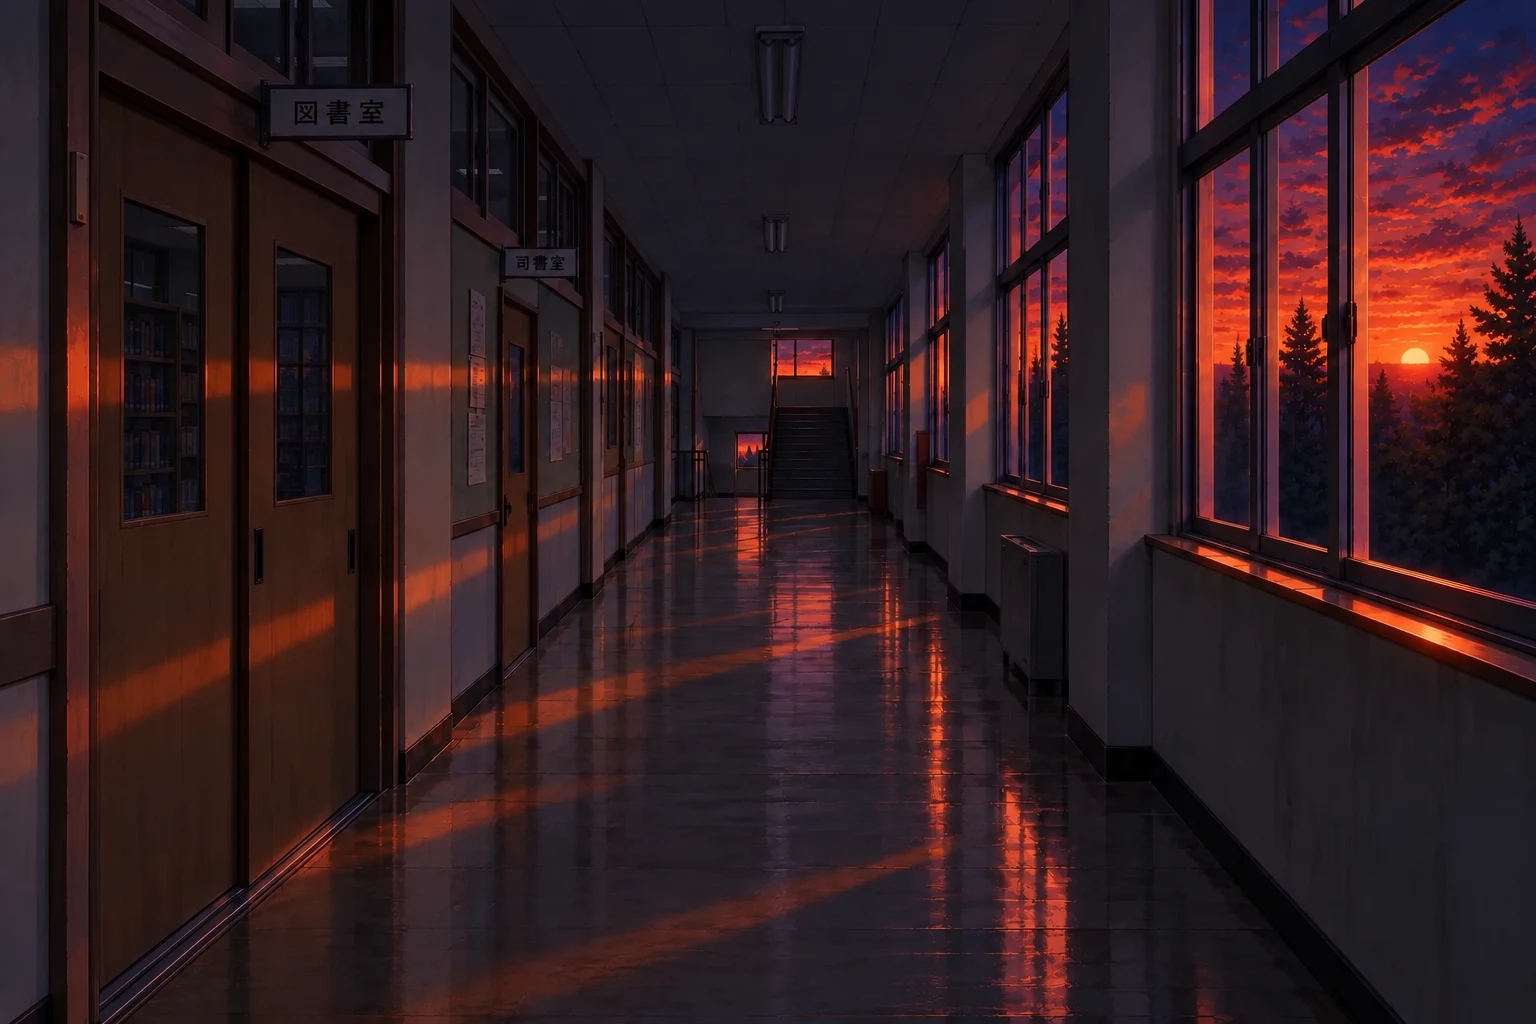
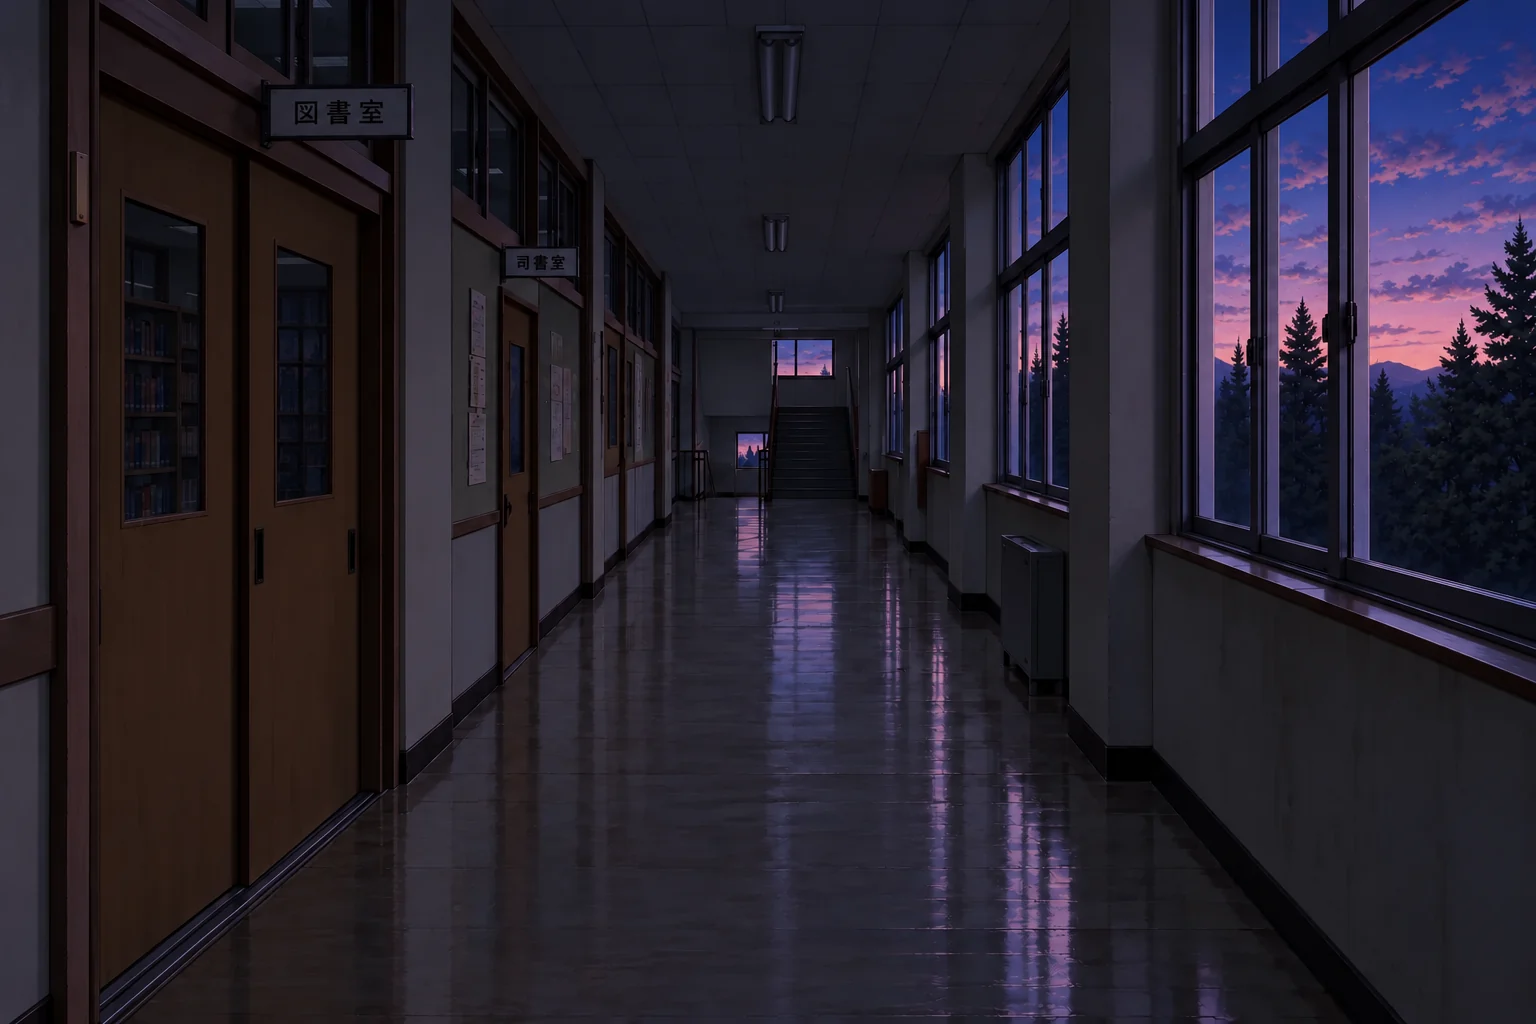
タイトルへ戻る確認・2章の足音のフェード・3章の棚を読みやすく・3章の重ね合わせの不具合・4章のポジション名・5章の赤ペン・BAD4の廊下と図書室前廊下の18:30

diff --git a/index.html b/index.html
@@ -252,7 +252,16 @@
   .sh-book.gap { background: rgba(0,0,0,.35); box-shadow: inset 0 0 0 1px rgba(255,255,255,.15); }
   .sh-book.gap .t { color: rgba(255,255,255,.55); }
   .sh-book.sel { outline: 3px solid var(--gold); outline-offset: 1px; }
-  .sh-sign { font-size: 12px; color: #e8dcc6; text-align: center; margin: 2px 0 6px; }
+  .sh-sign { font-size: 14px; color: var(--ink); text-align: center; margin: 2px 0 6px; }
+  /* PC：番号と札を読みやすく。棚の画面だけ少し広くして、本とラベルを大きくする */
+  @media (min-width: 700px) {
+    .ov-card:has(.sh-row) { max-width: 660px; }
+    .sh-book { width: 56px; height: 250px; }
+    .sh-book .t { font-size: 15px; }
+    .sh-book .lb { width: 48px; font-size: 15px; font-weight: 600; line-height: 1.3; padding: 4px 0; color: #111; }
+    .sh-row { gap: 5px; }
+    .sh-sign { font-size: 15px; }
+  }
   @media (max-width: 400px) { .sh-book { width: 30px; height: 168px; } .sh-book .lb { width: 26px; font-size: 9px; } .sh-row { gap: 2px; } }
   /* 作戦ボード：コートの図にマグネットを置く。押したマグネットと、次に押した場所が入れ替わる */
   .lu-court { position: relative; aspect-ratio: 10 / 7; background: #f3f0e8; border-radius: 4px; box-shadow: 0 4px 14px rgba(0,0,0,.4); margin: 4px 0 8px; touch-action: manipulation; }
@@ -266,6 +275,10 @@
   .lu-slot.sel b { outline: 3px solid var(--gold); outline-offset: 2px; }
   .lu-bench { display: flex; align-items: center; gap: 10px; justify-content: center; margin-bottom: 6px; }
   .lu-bench .label { font-size: 12px; color: var(--muted); letter-spacing: .1em; }
+  /* ボードの横に書き添えた役目（ケイの字）。コートの図の下に一覧で出す */
+  .lu-legend { list-style: none; margin: 0; padding: 8px 10px; background: #f3f0e8; border-radius: 4px; color: #3c4a63; font-size: 13px; line-height: 1.7; }
+  .lu-legend b { color: #b8423c; font-weight: 600; }
+  .lu-slot small { white-space: nowrap; }
   .lu-slot.bench { position: static; transform: none; }
   .lu-slot.bench b { background: #5d6f8c; }
   .align-pad div { display: flex; gap: 56px; }
@@ -2369,7 +2382,7 @@
       } else {
         // 子ども二人が上履きで駆けていく。ゴム底が床をはたく「パタパタ」（やわらかい立ち上がり・低めの音・短い余韻）
         for (let k = 0; k < 12; k++) {
-          const fade = 0.42 * (1 - k / 13);
+          const fade = 0.42 * Math.pow(Math.sin(Math.PI * (k + 0.5) / 12), 1.3);   // 遠くから近づいて、また遠ざかる（フェードイン→フェードアウト）
           const a1 = t0 + k * 0.17, a2 = t0 + 0.085 + k * 0.19;
           step(a1, 380, 0.9, fade, 0.07, 0.012); step(a1 + 0.004, 1100, 1.2, fade * 0.22, 0.035, 0.008); thump(a1, 140, 90, fade * 0.35, 0.09);
           step(a2, 330, 0.9, fade * 0.85, 0.07, 0.012); step(a2 + 0.004, 950, 1.2, fade * 0.2, 0.035, 0.008); thump(a2, 125, 85, fade * 0.3, 0.09);
@@ -3308,7 +3321,7 @@
       bg.style.opacity = '1'; await wait(750);
     };
     const halls = ORDER.map(id => CHAPTERS[id]).filter(ch => ch.hall);
-    await show(halls[0].hall);
+    await show(`${halls[0].hall}_1830_lit`);   // BAD4 は5章のあと（18:30）なので、はじめの廊下も18:30の絵
     await line('廊下に立って、並んだ扉を見渡した。');
     for (const ch of halls) {
       // 息を引き取った子の部屋だけは、明かりが消えている（閉め出した子の部屋は、ほかの教室と同じく明かりがついたまま）
@@ -5061,7 +5074,7 @@
       async notice() {
         showCut('lci_notice');
         await say(['掲示板に、図書だより7月号が貼られている。']);
-        const canUse = R.items.has('draft');
+        const lp = R.loop, canUse = R.items.has('draft');
         const v = await noticeView(canUse);
         const first = !R.know.has('dayori');
         if (first) {
@@ -5070,7 +5083,9 @@
                      '掲示板の隅に、委員会の決まりが貼ってある。「今月のおすすめは、当番の委員が名前を入れて書くこと」']);
           await tick();
         }
-        if (canUse && v === 'use') {
+        // 調べたことでチャイムが鳴ったら、持ち物（下書き）はもうないので、重ね合わせには進まない
+        if (R.over || R.loop !== lp) return;
+        if (canUse && v === 'use' && R.items.has('draft')) {
           const ok = await alignDraft();
           if (!ok) return;
           if (!R.know.has('acrostic')) {
@@ -5355,13 +5370,14 @@
   /* ================================================================
      第四章　体育館（ケイ）
      ================================================================ */
-  // 作戦ボード：5つのポジションとベンチに、6人のマグネットを置く。はじめは顧問の並び（けがを知らない顧問は、外から打てるハヤトをシューターに、ケイを司令塔に置いている）
+  // 作戦ボード：5つのポジションとベンチに、6人のマグネットを置く。はじめは顧問の並び（けがを知らない顧問は、外から打てるハヤトをシューティングガードに、ケイをポイントガードに置いている）
   // [位置, 名前, 横, 縦, 役目]。役目はボードにケイの字で書き添えてある（一年が覚えられるように）（バスケを知らなくても、手がかりと結びつけられるように）
-  const LINEUP_POS = [['pg', '司令塔', 50, 82, 'ボールを運ぶ'], ['sg', 'シューター', 85, 62, '外から打つ'], ['sf', '外のフォワード', 15, 64, '最後まで走り続ける'],
-                      ['pf', '中のフォワード', 32, 31, '速攻で一番に走りこむ'], ['c', 'ゴール下', 58, 15, '体をぶつけて守る']];
+  const LINEUP_POS = [['pg', 'ポイントガード', 50, 82, 'ボールを運び、パスで攻めを組み立てる'], ['sg', 'シューティングガード', 79, 60, '外からシュートを決める'],
+                      ['sf', 'スモールフォワード', 20, 62, '外も中も動き、最後まで走り続ける'],
+                      ['pf', 'パワーフォワード', 32, 31, 'ゴール近くで戦い、速攻では先頭を走る'], ['c', 'センター', 60, 15, 'ゴールのいちばん近くで、体を張って守る']];
   const ROLE_LINE = LINEUP_POS.map(([, l, , , r]) => `「${l}：${r}」`).join('');
   const LINEUP_COACH = { pg: 'ケイ', sg: 'ハヤト', sf: 'シュン', pf: 'ミナト', c: 'ダイチ', bench: 'ユウマ' };
-  // ケイが本当に組みたかった並び：試合の最後まで走り続ける外のフォワードに自分が入り、けがのハヤトをベンチで休ませる
+  // ケイが本当に組みたかった並び：試合の最後まで走り続けるスモールフォワードに自分が入り、けがのハヤトをベンチで休ませる
   // 手がかりは名前ではなく特徴で書く。部誌の部員名簿（背番号・身長・50m走）と、得点板の裏の練習試合の記録（背番号ごと）を照らし合わせて、はじめて誰のことかわかる
   const KEI_ROSTER = [['三浦ケイ', '2年', 4, 176, '6.9'], ['ユウマ', '1年', 5, 168, '7.1'], ['ハヤト', '1年', 7, 165, '6.8'],
                       ['シュン', '1年', 9, 170, '6.4'], ['ミナト', '1年', 11, 172, '7.0'], ['ダイチ', '1年', 15, 186, '7.6']];
@@ -5418,8 +5434,9 @@
         <p class="lu-head">ボードの上に、顧問の赤い字：「土曜のスタメン　負けたら部長交代」</p>
         <div class="lu-court">${court}
           ${R.know.has('self') ? '<span class="lu-note">自分の場所は、<br>最後に決める</span>' : ''}
-          ${LINEUP_POS.map(([k, l, x, y, r]) => `<button type="button" class="lu-slot" data-k="${k}" style="left:${x}%;top:${y}%"><b></b><small>${l}<span class="lu-role">${r}</span></small></button>`).join('')}</div>
+          ${LINEUP_POS.map(([k, l, x, y, r]) => `<button type="button" class="lu-slot" data-k="${k}" style="left:${x}%;top:${y}%"><b></b><small>${l}</small></button>`).join('')}</div>
         <div class="lu-bench"><span class="label">ベンチ</span><button type="button" class="lu-slot bench" data-k="bench"><b></b></button></div>
+        <ul class="lu-legend">${LINEUP_POS.map(([, l, , , r]) => `<li><b>${l}</b>　${r}</li>`).join('')}</ul>
         <div class="row"><button type="button" class="btn primary" id="luOk">この並びにする</button><button type="button" class="btn" id="luNo">やめる</button></div>`);
       const draw = () => card.querySelectorAll('.lu-slot').forEach(b => {
         b.querySelector('b').textContent = cur[b.dataset.k]; b.classList.toggle('sel', sel === b.dataset.k);
@@ -5591,13 +5608,13 @@
         showCut('gci_board');
         if (R.know.has('lineup')) {
           const placed = !!R.taken.board && Object.keys(LINEUP_ANSWER).every(k => R.taken.board[k] === LINEUP_ANSWER[k]);
-          if (placed) { await say(['作戦ボード。ケイが組みたかった並びのまま、マグネットが置かれている。', '外のフォワードに「ケイ」。ベンチに「ハヤト」。']); return; }
+          if (placed) { await say(['作戦ボード。ケイが組みたかった並びのまま、マグネットが置かれている。', 'スモールフォワードに「ケイ」。ベンチに「ハヤト」。']); return; }
           // チャイムで時間が戻ると、マグネットは顧問の並びに戻っている。並べ方は覚えているので、すぐに並べ直せる
           await say(['作戦ボード。マグネットは、顧問の並びに戻っていた。', '……ケイが本当に組みたかった並びは、もう覚えている。']);
           if (R.over) return;
           if (await choose(['ケイの並びに直す', 'やめる']) !== 0) return;
           R.taken.board = { ...LINEUP_ANSWER }; R.seen.add('lineup');
-          await say(['外のフォワードに「ケイ」。ベンチに「ハヤト」。……マグネットを、ケイの並びに置き直した。']);
+          await say(['スモールフォワードに「ケイ」。ベンチに「ハヤト」。……マグネットを、ケイの並びに置き直した。']);
           return;
         }
         const lp = R.loop;
@@ -5620,7 +5637,7 @@
         if (c !== 0) return;
         if (EASY() && !(R.know.has('logbook') && R.know.has('bag'))) { await say(['（部員のことが、まだよくわからない。顧問の机の部誌と、ケイの荷物を見てから並べよう）']); return; }
         const v = EASY() ? { go: true, b: { ...LINEUP_ANSWER } } : await lineupBoard();
-        if (EASY()) await say(['部誌の部員名簿と、荷物のメモを思い出しながら、マグネットを動かした。', 'けがをしたハヤトはベンチ。アシストの多いユウマが司令塔。外から決めたミナトがシューター。背の高いダイチがゴール下。足の速いシュンは、速攻で走りこむ中のフォワード。']);
+        if (EASY()) await say(['部誌の部員名簿と、荷物のメモを思い出しながら、マグネットを動かした。', 'けがをしたハヤトはベンチ。アシストの多いユウマがポイントガード。外から決めたミナトがシューティングガード。背の高いダイチがセンター。足の速いシュンは、速攻で先頭を走るパワーフォワード。']);
         R.taken.board = v.b;
         if (!v.go) return;
         const ok = Object.keys(LINEUP_ANSWER).every(k => v.b[k] === LINEUP_ANSWER[k]);
@@ -5629,7 +5646,7 @@
           await say(['マグネットを並べ終えて、ボードを眺めた。', '……何かが違う気がする。']);
           await tick(); return;
         }
-        await say(['最後に、「ケイ」のマグネットを、外のフォワードの位置に置いた。', '並べ終えたボードを、少し離れて眺めた。']);
+        await say(['最後に、「ケイ」のマグネットを、スモールフォワードの位置に置いた。', '並べ終えたボードを、少し離れて眺めた。']);
         R.know.add('lineup'); R.seen.add('lineup');
         await say(['……ケイが本当に組みたかったのは、この並びなんだ。', 'けがをしたハヤトは、ベンチで休ませる。試合の最後まで走り続ける場所には、自分が入る。',
                    '後輩のことは、こんなに考えているのに。……自分の場所だけは、いちばんきついところだった。']);
@@ -5639,7 +5656,7 @@
         showCut('gci_desk');
         if (!R.know.has('logbook')) {
           await say(['ステージ前の長机。顧問の机らしい。', 'クリップボードに、顧問の字のスタメン表が挟まっている。',
-                     '「土曜のスタメン　司令塔：ケイ　シューター：ハヤト　外のフォワード：シュン　中のフォワード：ミナト　ゴール下：ダイチ　ベンチ：ユウマ」',
+                     '「土曜のスタメン　ポイントガード：ケイ　シューティングガード：ハヤト　スモールフォワード：シュン　パワーフォワード：ミナト　センター：ダイチ　ベンチ：ユウマ」',
                      'その横に、部誌が開いたまま置いてあった。']);
           R.know.add('logbook'); await gotItem('logbook'); await tick();
         } else if (!R.items.has('logbook') && !R.taken.desk) {
@@ -5655,8 +5672,8 @@
           await tick();
         } else if (again('desk')) await say(['部誌のケイの字。「ハヤト、左足首をかばってる。本人は、大丈夫って笑ってたけど」',
                                              '机に残っていた受診メモ。「1年　ハヤト　今週の試合・練習は控えること」']);
-        else await say(['顧問のスタメン表。「司令塔：ケイ　シューター：ハヤト　外のフォワード：シュン　中のフォワード：ミナト　ゴール下：ダイチ　ベンチ：ユウマ」',
-                        '足首をけがしたハヤトの名前が、外を走り回るシューターの位置に書かれている。']);
+        else await say(['顧問のスタメン表。「ポイントガード：ケイ　シューティングガード：ハヤト　スモールフォワード：シュン　パワーフォワード：ミナト　センター：ダイチ　ベンチ：ユウマ」',
+                        '足首をけがしたハヤトの名前が、外を走り回るシューティングガードの位置に書かれている。']);
       },
       async bag() {
         showCut('gci_bag');
@@ -5752,9 +5769,9 @@
                    '手がかりが多いので、覚えきれないときは、紙やスマホのメモに書き出しながら考えるのがおすすめです。部員の名前・背番号・得意なこと・ボードの役目を、表にしてみましょう。読んだ文章は「ログ」で、部誌は「持ち物」から、もう一度見られます。',
                    miss.length ? `並べ方の手がかりは、部屋のあちこちにあります。まだ見ていない場所：${miss.join('、')}。` : 'メモには名前が書いていないものがあります。「誰のことか」は、部誌の部員名簿で確かめられます（持ち物から読み返せます）。',
                    '練習試合の記録は背番号だけです。部員名簿の背番号と見くらべると、誰の記録かわかります。けがでベンチになるのは誰か、から決めていきましょう。',
-                   'ボードの役目の「最後まで走り続ける」は、試合の終わりまで走る力のこと。「速攻で一番に走りこむ」は、足の速さのことです。'];
+                   'ボードの役目の「最後まで走り続ける」は、試合の終わりまで走る力のこと。「速攻では先頭を走る」は、足の速さのことです。'];
         // 答えに近いヒントは、2回並べ間違えてから出す
-        if (!miss.length && (R.taken.miss || 0) >= 2) t.push('ハヤトはけがでベンチ。外から決めた7番と11番のうち、残るのは11番のミナトでシューター。アシスト最多の5番ユウマが司令塔。いちばん背の高いダイチがゴール下。いちばん足の速いシュンは、最後まで走りきれないので中のフォワード。ケイの場所は、最後に残ったところです。');
+        if (!miss.length && (R.taken.miss || 0) >= 2) t.push('ハヤトはけがでベンチ。外から決めた7番と11番のうち、残るのは11番のミナトでシューティングガード。アシスト最多の5番ユウマがポイントガード。いちばん背の高いダイチがセンター。いちばん足の速いシュンは、最後まで走りきれないのでパワーフォワード。ケイの場所は、最後に残ったところです。');
         return t;
       }
       if (!R.know.has('logbook') || !R.know.has('bag')) return 'まだ調べていない場所がありそうです。';
@@ -6014,7 +6031,7 @@
     [['7/7', '佐藤・中村'], ['7/8', '水野・吉田（白石の代わり）'], ['7/9', '吉田・小林'], ['7/10', '加藤・伊藤'], ['7/11', '中村（水野の代わり）・山本']],
     [['7/14', '佐藤・中村'], ['7/15', '水野・伊藤（白石の代わり）'], null, null, null]];
   const ROSTER_ANSWER = TRACE_DAYS.slice().sort().join(',');
-  // 視力検査表：段ごとの輪の切れ目の向き。0.7の段の下にだけ、鉛筆の線（先生の覚え書き）
+  // 視力検査表：段ごとの輪の切れ目の向き。0.7の段の下にだけ、赤ペンの線（先生の覚え書き）
   const CHART = [['0.1', ['R']], ['0.2', ['U', 'L']], ['0.3', ['D', 'R', 'U']], ['0.4', ['L', 'D', 'R', 'U']], ['0.5', ['U', 'R', 'D', 'L']],
                  ['0.7', ['L', 'U', 'U', 'R']], ['1.0', ['D', 'L', 'R', 'D', 'U']]];
   const DIR_ANSWER = 'LUUR';
@@ -6031,7 +6048,9 @@
         const a = Math.asin(gap / 2 / r), x1 = cx + r * Math.cos(a), y1 = y - r * Math.sin(a), x2 = cx + r * Math.cos(a), y2 = y + r * Math.sin(a);
         out += `<path d="M${x1} ${y1} A${r} ${r} 0 1 0 ${x2} ${y2}" fill="none" stroke="#111" stroke-width="${sw}" transform="rotate(${rot} ${cx} ${y})"/>`;
       });
-      if (lab === '0.7') out += `<line x1="${x0 - r * 2}" y1="${y + r + 5}" x2="${x0 + (dirs.length - 1) * r * 3.2 + r * 2}" y2="${y + r + 6}" stroke="#9a948a" stroke-width="0.9" opacity=".7"/>`;
+      // 0.7の段の下に、赤ペンで手書きの下線（少しだけ波打たせる）
+      if (lab === '0.7') { const xa = x0 - r * 2, xb = x0 + (dirs.length - 1) * r * 3.2 + r * 2, yl = y + r + 5;
+        out += `<path d="M${xa} ${yl} Q${(xa * 3 + xb) / 4} ${yl - 1.2} ${(xa + xb) / 2} ${yl + 0.6} T${xb} ${yl + 1.4}" fill="none" stroke="#c8322a" stroke-width="1.8" stroke-linecap="round" opacity=".92"/>`; }
       y += r * 2 + 16;
     });
     return `<svg viewBox="0 0 300 ${y}" role="img" aria-label="視力検査表。大きさの違う輪が段ごとに並んでいる">${out}</svg>`;
@@ -6378,7 +6397,7 @@
         const c = await choose(['つまみを動かす', 'やめる']);
         if (c !== 0) return;
         const v = EASY() ? DIR_ANSWER : await dirLock();
-        if (EASY()) await say(['視力検査表の、鉛筆の線を引いた段のとおりに、つまみを動かした。左、上、上、右。']);
+        if (EASY()) await say(['視力検査表の、赤ペンの線を引いた段のとおりに、つまみを動かした。左、上、上、右。']);
         if (v === null) return;
         if (v !== DIR_ANSWER) { nmMark('puz'); await say(['ガチ。……錠は開かない。']); await tick(); return; }
         lockClick();
@@ -6472,8 +6491,8 @@
         if (!R.seen.has('desk1')) return ['部屋の中で、気になる場所を調べてみましょう。', 'ツムギの来室カードが、箱にないようです。どこかにしまわれていないでしょうか。'];
         return ['先生の机の引き出しには、上下左右にしか動かない錠がかかっています。錠のシールの絵は、何に似ていますか。',
                 'シールの「C」の形の輪は、視力検査で使う記号です。この部屋の掲示板を見てみましょう。',
-                '掲示板の視力検査表を、近くで見てみましょう。ひとつの段にだけ、鉛筆の線が引いてあります。',
-                '鉛筆の線のある段の輪の、切れ目の向きを、左から順に、つまみで入れます。',
+                '掲示板の視力検査表を、近くで見てみましょう。ひとつの段にだけ、赤ペンの線が引いてあります。',
+                '赤ペンの線のある段の輪の、切れ目の向きを、左から順に、つまみで入れます。',
                 '「0.7」の段。切れ目の向きは、左・上・上・右です。'];
       }
       if (!R.taken.key && !R.know.has('roster')) return ['引き出しの先生のメモ「いつもの赤十字の箱、二段目」。赤い十字の箱は、どこにありましたか。', '薬品棚のガラス戸の中を、もう一度見てみましょう。'];
@@ -7556,7 +7575,16 @@
   document.addEventListener('keydown', e => { if (e.key === 'Escape' && !menuPanel.hidden) setMenu(false); });
   ['btnMenu', 'btnWait', 'btnHowto'].forEach(id => $('#' + id).addEventListener('click', () => setMenu(false)));
   $('#btnHowto').onclick = () => { if (!busy) showHowto(false); };
-  $('#btnMenu').onclick = () => { advance = null; busy = false; showTitle(true); };
+  // タイトルへ戻る前に確認する（ほかの画面を開いているときは、そのまま戻る）
+  $('#btnMenu').onclick = async () => {
+    if (ov.hidden) {
+      const v = await uiWait(`<p class="eyebrow">メニュー</p><h2>タイトルに戻りますか？</h2>
+        <p class="note">ここまでの進み具合は、自動で記録されています。タイトルの「前回のつづきから」で再開できます。</p>`, '', ['タイトルに戻る', 'ゲームに戻る']);
+      closeOverlay();
+      if (v !== 0) return;
+    }
+    advance = null; busy = false; showTitle(true);
+  };
   $('#btnSave').onclick = e => { e.stopPropagation(); if (R && (!R.over || onRoof()) && !replay) showSlots('save'); };
 
   setChapter('art', false); newRun('art'); R.over = true; render(); idle();
